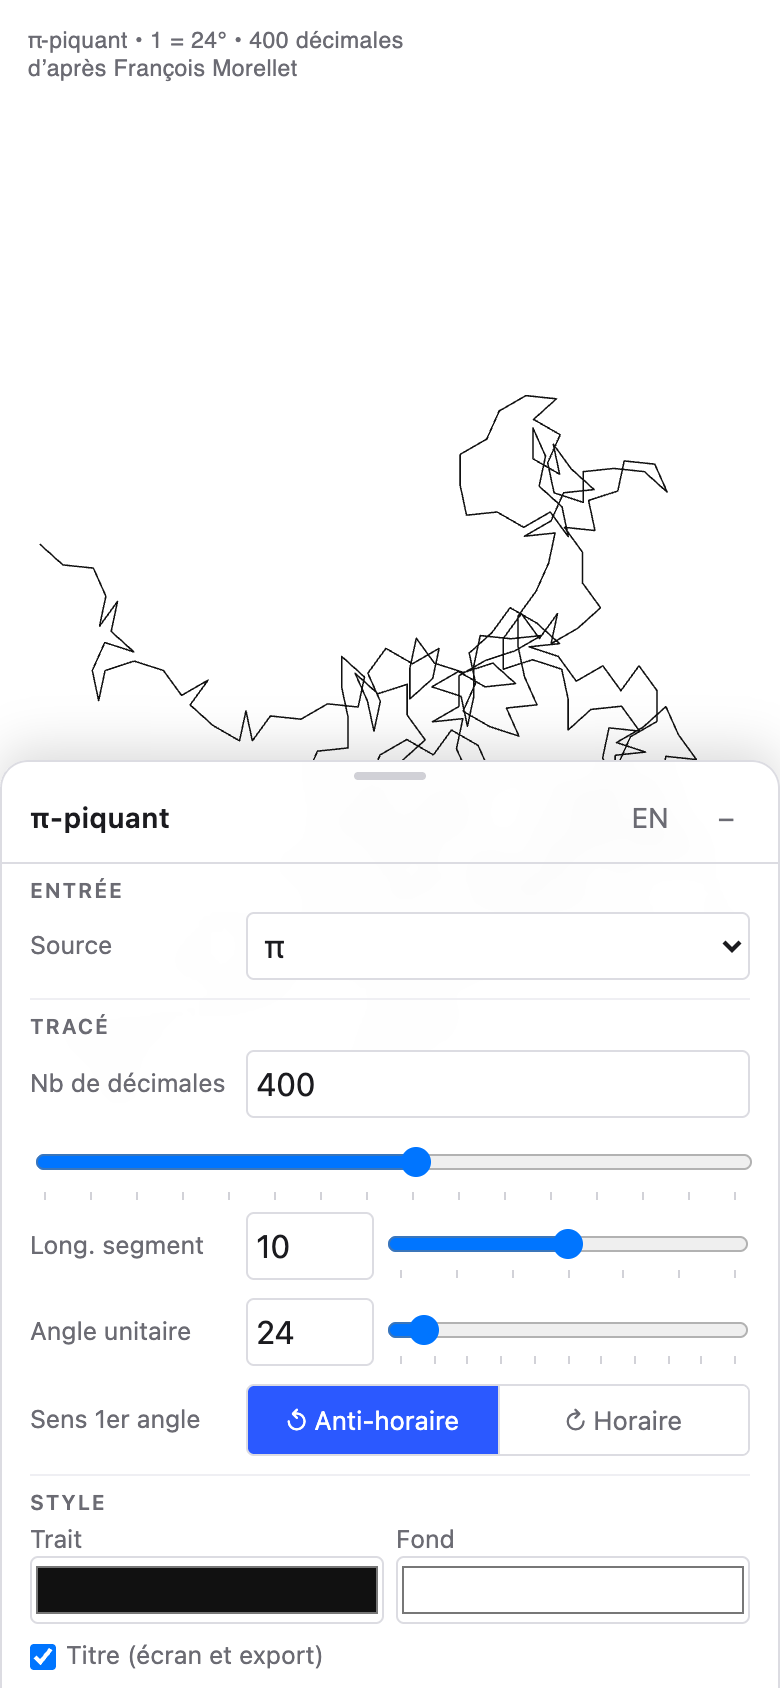
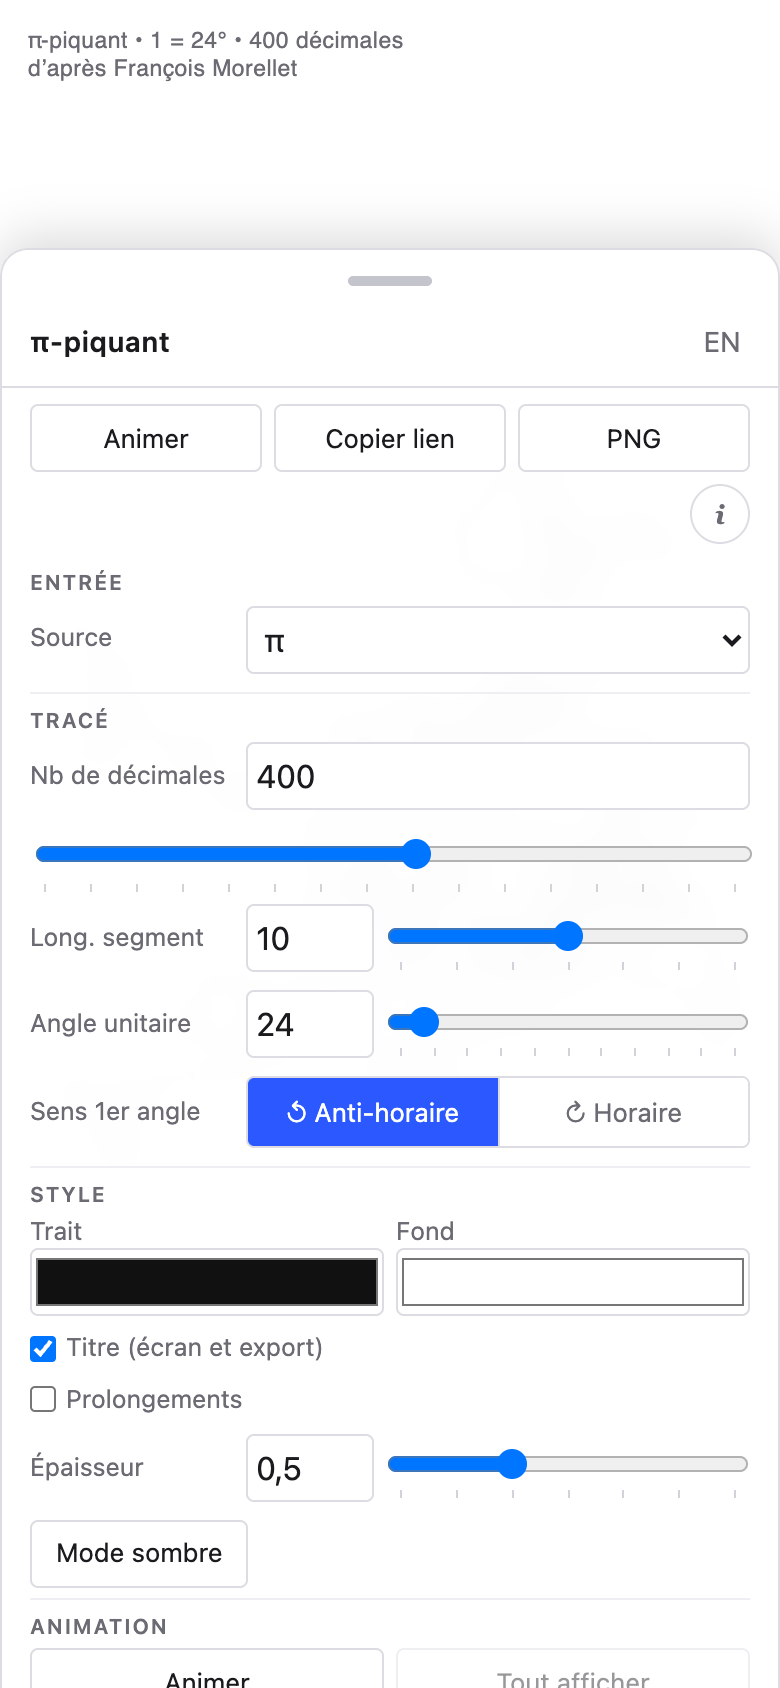
Feuille mobile à trois positions pilotées au geste
- Fermée (poignée seule, aucun bouton, état initial), mi-ouverte (titre,
  langue, Animer / Copier lien / PNG, état) et ouverte (tous les réglages)
- Toucher la poignée ouvre d'un cran ; petit glissement = position voisine ;
  grand glissement vers le bas = fermeture ; seule la distance compte
  (nextSheet, fonction pure testée) ; la feuille suit le doigt
- Poignée utilisable au clavier (Entrée, Espace) ; hauteur fixe 86 %,
  déplacée par translation, zone sûre du bas prise en compte
- Remplace le bouton de repli « – / + » sur mobile ; bureau inchangé
- Captures mobiles du README régénérées (mi-ouverte, ouverte) ; script de
  capture : option --only=<série> ; README et tests (77) mis à jour

diff --git a/src/ui/panel.ts b/src/ui/panel.ts
@@ -1,5 +1,5 @@
 import { strings, type Dict } from './i18n';
-import { isMobile, MOBILE_QUERY } from './layout';
+import { isMobile, MOBILE_QUERY, nextSheet, type Sheet } from './layout';
 import { COUNT_STOPS, DEFAULT_VIDEO_DURATION, INTENSITY_STOPS, LENGTH_STOPS, MAX_COUNT, usesCount, MAX_SPEED, MIN_SPEED, SPEED_STOPS, VIDEO_DURATION_STOPS, WIDTH_STOPS, type Params } from './state';
 
 export interface PanelActions {
@@ -40,7 +40,8 @@ export function createPanel(host: El, a: PanelActions) {
   panel.addEventListener('wheel', (e) => e.stopPropagation());
 
   let t: Dict = strings(a.get().lang);
-  let collapsed = isMobile(); // sur téléphone, la feuille démarre repliée : le dessin reste visible
+  let collapsed = false; // bureau : fenêtre repliée ou non
+  let sheet: Sheet = 'closed'; // mobile : la feuille démarre fermée (poignée seule), le dessin reste entièrement visible
   let playing = false;
   let canShowAll = false;
   let showAllBtn: HTMLButtonElement | null = null;
@@ -51,15 +52,64 @@ export function createPanel(host: El, a: PanelActions) {
   let status = '';
   let statusEl: El | null = null;
 
-  // --- glisser la fenêtre -------------------------------------------------
+  // --- mobile : feuille à trois positions ---------------------------------
+  // safe-area du bas (barre d'accueil des téléphones), mesurée via un élément invisible
+  const probe = h('div', { style: 'position:fixed;visibility:hidden;pointer-events:none;padding-bottom:env(safe-area-inset-bottom)' });
+  panel.append(probe);
+  const safeBottom = () => parseFloat(getComputedStyle(probe).paddingBottom) || 0;
+
+  /** Décalage vertical (px) de la feuille pour chaque position : 0 = entièrement visible. */
+  function sheetOffsets() {
+    const height = panel.offsetHeight;
+    const grip = header.querySelector<HTMLElement>('.grip');
+    const foot = body.querySelector<HTMLElement>('.foot');
+    const safe = safeBottom();
+    const closedVisible = (grip?.offsetHeight ?? 30) + safe; // poignée seule
+    const halfVisible = foot ? foot.offsetTop + foot.offsetHeight + 8 + safe : closedVisible; // + titre, actions rapides, ligne d'état
+    return { closed: height - closedVisible, half: height - halfVisible, full: 0 };
+  }
+
+  /** Place la feuille sur sa position (avec animation) ; sans effet sur bureau. */
+  function applySheet() {
+    if (!isMobile()) {
+      panel.style.transform = '';
+      panel.style.transition = '';
+      body.style.overflowY = '';
+      delete panel.dataset.sheet;
+      return;
+    }
+    panel.style.transition = '';
+    panel.style.transform = `translateY(${sheetOffsets()[sheet]}px)`;
+    body.style.overflowY = sheet === 'full' ? 'auto' : 'hidden'; // le contenu ne défile que feuille ouverte
+    panel.dataset.sheet = sheet;
+    header.querySelector('.grip')?.setAttribute('aria-expanded', String(sheet !== 'closed'));
+  }
+  window.addEventListener('resize', applySheet); // la barre d'adresse des téléphones change la hauteur utile
+
+  // --- glisser la fenêtre (bureau) ou la feuille (mobile) -----------------
   let drag: { dx: number; dy: number } | null = null;
+  let gesture: { startY: number; t0: number; base: number } | null = null;
+  const capture = (e: PointerEvent) => {
+    try { header.setPointerCapture(e.pointerId); } catch { /* pointeur synthétique : pas de capture */ }
+  };
   header.addEventListener('pointerdown', (e) => {
-    if (isMobile() || (e.target as HTMLElement).closest('button')) return; // la feuille mobile n'est pas déplaçable
+    if ((e.target as HTMLElement).closest('button')) return;
+    if (isMobile()) {
+      gesture = { startY: e.clientY, t0: performance.now(), base: sheetOffsets()[sheet] };
+      panel.style.transition = 'none'; // la feuille suit le doigt sans retard
+      capture(e);
+      return;
+    }
     const r = panel.getBoundingClientRect();
     drag = { dx: e.clientX - r.left, dy: e.clientY - r.top };
-    header.setPointerCapture(e.pointerId);
+    capture(e);
   });
   header.addEventListener('pointermove', (e) => {
+    if (gesture) {
+      const y = Math.min(sheetOffsets().closed, Math.max(0, gesture.base + e.clientY - gesture.startY));
+      panel.style.transform = `translateY(${y}px)`;
+      return;
+    }
     if (!drag) return;
     const x = Math.min(Math.max(0, e.clientX - drag.dx), window.innerWidth - 60);
     const y = Math.min(Math.max(0, e.clientY - drag.dy), window.innerHeight - 40);
@@ -67,17 +117,25 @@ export function createPanel(host: El, a: PanelActions) {
     panel.style.top = `${y}px`;
     panel.style.right = 'auto';
   });
-  header.addEventListener('pointerup', () => (drag = null));
-  // feuille mobile : toucher l'en-tête (hors boutons) la replie ou la déplie
-  header.addEventListener('click', (e) => {
-    if (!isMobile() || (e.target as HTMLElement).closest('button')) return;
-    collapsed = !collapsed;
-    build();
+  header.addEventListener('pointerup', (e) => {
+    drag = null;
+    if (!gesture) return;
+    const g = gesture;
+    gesture = null;
+    // petit/grand glissement vers le haut ou le bas, ou simple toucher : voir nextSheet
+    sheet = nextSheet(sheet, e.clientY - g.startY, performance.now() - g.t0, panel.offsetHeight);
+    applySheet();
   });
-  // changement de disposition (rotation, redimensionnement) : position libre effacée, état adapté
+  header.addEventListener('pointercancel', () => {
+    drag = null;
+    gesture = null;
+    applySheet(); // geste interrompu : la feuille revient à sa position
+  });
+  // changement de disposition (rotation, redimensionnement) : position libre effacée, état remis à zéro
   window.matchMedia(MOBILE_QUERY).addEventListener('change', () => {
     panel.style.left = panel.style.top = panel.style.right = '';
-    collapsed = isMobile();
+    collapsed = false;
+    sheet = 'closed';
     build();
   });
 
@@ -199,26 +257,36 @@ export function createPanel(host: El, a: PanelActions) {
       a.set({ lang: p.lang === 'fr' ? 'en' : 'fr' });
       build();
     }, 'ghost');
-    const fold = button(collapsed ? '+' : '–', () => {
-      collapsed = !collapsed;
-      build();
-    }, 'ghost');
-    fold.title = collapsed ? t.show : t.hide;
-    header.append(title, h('span', { class: 'spacer' }), langBtn, fold);
-    panel.classList.toggle('collapsed', collapsed);
-    if (collapsed) {
-      // feuille mobile repliée : les trois actions principales et la ligne d'état
-      if (isMobile()) {
-        body.append(
-          h('div', { class: 'row quick' },
-            button(playing ? t.pause : t.play, () => a.togglePlay()),
-            button(t.copyLink, () => a.copyLink()),
-            button(t.png, () => a.exportPng(Number(pngSizeValue))),
-          ),
-          footer(),
-        );
-      }
-      return;
+    const mobile = isMobile();
+    if (mobile) {
+      // en-tête = poignée (seule visible feuille fermée) + titre et langue ; pas de bouton de repli : on glisse ou on touche la poignée
+      const grip = h('div', { class: 'grip', role: 'button', tabindex: '0', 'aria-label': t.settings });
+      grip.addEventListener('keydown', (e) => {
+        if (e.key !== 'Enter' && e.key !== ' ') return;
+        e.preventDefault();
+        sheet = nextSheet(sheet, 0, 0, panel.offsetHeight); // équivaut à un toucher
+        applySheet();
+      });
+      header.append(grip, h('div', { class: 'sheet-title' }, title, h('span', { class: 'spacer' }), langBtn));
+      panel.classList.remove('collapsed');
+      // feuille mi-ouverte : les trois actions principales et la ligne d'état, juste sous le titre
+      body.append(
+        h('div', { class: 'row quick' },
+          button(playing ? t.pause : t.play, () => a.togglePlay()),
+          button(t.copyLink, () => a.copyLink()),
+          button(t.png, () => a.exportPng(Number(pngSizeValue))),
+        ),
+        footer(),
+      );
+    } else {
+      const fold = button(collapsed ? '+' : '–', () => {
+        collapsed = !collapsed;
+        build();
+      }, 'ghost');
+      fold.title = collapsed ? t.show : t.hide;
+      header.append(title, h('span', { class: 'spacer' }), langBtn, fold);
+      panel.classList.toggle('collapsed', collapsed);
+      if (collapsed) return;
     }
 
     // Source
@@ -333,7 +401,11 @@ export function createPanel(host: El, a: PanelActions) {
       ),
     ));
 
-    body.append(footer());
+    if (!mobile) body.append(footer());
+    else {
+      applySheet();
+      requestAnimationFrame(applySheet); // mesures définitives une fois la mise en page terminée
+    }
   }
 
   /** Ligne du bas : messages d'état à gauche, bouton d'information à droite. */

diff --git a/src/style.css b/src/style.css
@@ -106,19 +106,28 @@ button.info {
 .info-dialog .version { margin: 12px 0 0; font-size: 10.5px; color: var(--muted); }
 .info-dialog .version a { color: inherit; }
 
-/* Mobile : la fenêtre devient une feuille en bas de l'écran (seuil identique à MOBILE_QUERY dans src/ui/layout.ts) */
+/*
+ * Mobile : la fenêtre devient une feuille en bas de l'écran, à trois positions (src/ui/layout.ts, nextSheet) :
+ * fermée (poignée seule), mi-ouverte (titre, actions rapides, état) et ouverte. Hauteur fixe, déplacée par translation
+ * (position réglée par src/ui/panel.ts). Seuil identique à MOBILE_QUERY.
+ */
 @media (max-width: 640px) {
   body { font-size: 13px; }
   .panel {
-    top: auto; right: 0; left: 0; bottom: 0; width: auto; max-height: 55vh; max-height: 55dvh;
+    top: auto; right: 0; left: 0; bottom: 0; width: auto;
+    height: min(86vh, 720px); height: min(86dvh, 720px); max-height: none;
     border-radius: 14px 14px 0 0; border-bottom: 0; padding-bottom: env(safe-area-inset-bottom);
     box-shadow: 0 -6px 24px rgba(0,0,0,.14);
+    transform: translateY(calc(100% - 34px)); /* avant la mesure : poignée seule */
+    transition: transform .26s cubic-bezier(.2, .8, .2, 1);
+    will-change: transform;
   }
-  .panel-head { position: relative; cursor: pointer; padding: 12px 8px 6px 14px; }
-  .panel-head::before { content: ''; position: absolute; top: 5px; left: 50%; width: 36px; height: 4px; margin-left: -18px; border-radius: 2px; background: #d0d0d6; }
+  .panel-head { display: block; padding: 0 8px; cursor: default; touch-action: none; }
+  .grip { height: 30px; display: flex; align-items: center; justify-content: center; cursor: grab; touch-action: none; outline-offset: -3px; }
+  .grip::before { content: ''; width: 42px; height: 5px; border-radius: 3px; background: #c4c4cc; }
+  .sheet-title { display: flex; align-items: center; padding: 0 2px 6px 6px; }
   .panel-head .title { font-size: 14px; }
-  .panel-body { padding: 0 14px 10px; overscroll-behavior: contain; -webkit-overflow-scrolling: touch; }
-  .panel.collapsed .panel-body { border-top: 0; padding-bottom: 8px; }
+  .panel-body { flex: 1; min-height: 0; padding: 0 14px 10px; overflow-y: hidden; overscroll-behavior: contain; -webkit-overflow-scrolling: touch; }
   button { height: 34px; padding: 0 12px; }
   button.ghost { height: 32px; min-width: 36px; font-size: 14px; }
   input[type=number], select { height: 34px; font-size: 16px; }
@@ -133,7 +142,9 @@ button.info {
   h3 { font-size: 10.5px; }
   button.info { width: 30px; height: 30px; font-size: 13px; }
   .row { gap: 6px; margin-bottom: 8px; }
-  .quick { margin-top: 6px; margin-bottom: 0; }
+  .quick { margin-top: 8px; margin-bottom: 0; }
+  .foot { margin-top: 6px; margin-bottom: 4px; }
+  section:first-of-type { margin-top: 6px; }
   .caption { top: 14px; bottom: auto; left: 14px; font-size: 11.5px; }
   .info-dialog { font-size: 13.5px; }
 }

diff --git a/tests/digits.test.ts b/tests/digits.test.ts
@@ -11,6 +11,7 @@ import { decodeParams, DEFAULTS, encodeParams, mixColor, sanitize, usesCount, wi
 import { clipLine, extendedLines } from '../src/geometry/extend';
 import { BUILD, REPO_URL, versionLine, versionParts } from '../src/ui/version';
 import { pickVideoType } from '../src/render/video';
+import { nextSheet } from '../src/ui/layout';
 import { drawPath } from '../src/render/canvas';
 
 const str = (d: Uint8Array) => Array.from(d).join('');
@@ -436,5 +437,40 @@ describe('tracé progressif', () => {
     drawPath(ctx, pts, 2, style, 1, 0, 0, 100, 100);
     expect(calls.at(-1)).toEqual(['l', 10, 10]);
     expect(calls.length).toBe(3);
+  });
+});
+
+describe('feuille mobile : position après un geste sur la poignée', () => {
+  const H = 700;
+  it('toucher : fermée → mi-ouverte → ouverte → mi-ouverte', () => {
+    expect(nextSheet('closed', 0, 120, H)).toBe('half');
+    expect(nextSheet('half', 2, 120, H)).toBe('full');
+    expect(nextSheet('full', -3, 120, H)).toBe('half');
+  });
+  it('seule la distance compte, pas la vitesse du geste', () => {
+    expect(nextSheet('full', 60, 5, H)).toBe('half'); // petit mouvement, même instantané
+    expect(nextSheet('full', 60, 2000, H)).toBe('half');
+    expect(nextSheet('half', -60, 5, H)).toBe('full');
+  });
+  it('un appui long sans mouvement n\'est pas un toucher : la feuille ne bouge pas', () => {
+    expect(nextSheet('closed', 0, 900, H)).toBe('closed');
+    expect(nextSheet('half', 0, 900, H)).toBe('half');
+  });
+  it('fermée : petit glissement vers le haut → mi-ouverte, grand → ouverte', () => {
+    expect(nextSheet('closed', -60, 400, H)).toBe('half');
+    expect(nextSheet('closed', -320, 400, H)).toBe('full');
+    expect(nextSheet('closed', -15, 400, H)).toBe('closed'); // trop court
+  });
+  it('mi-ouverte : petit glissement vers le haut → ouverte, vers le bas → fermée', () => {
+    expect(nextSheet('half', -40, 300, H)).toBe('full');
+    expect(nextSheet('half', 40, 300, H)).toBe('closed');
+    expect(nextSheet('half', -15, 300, H)).toBe('half');
+    expect(nextSheet('half', 15, 300, H)).toBe('half');
+  });
+  it('ouverte : petit glissement vers le bas → mi-ouverte, grand → fermée', () => {
+    expect(nextSheet('full', 60, 400, H)).toBe('half');
+    expect(nextSheet('full', 320, 600, H)).toBe('closed');
+    expect(nextSheet('full', 15, 400, H)).toBe('full');
+    expect(nextSheet('full', -80, 300, H)).toBe('full'); // vers le haut : reste ouverte
   });
 });

diff --git a/src/ui/layout.ts b/src/ui/layout.ts
@@ -1,3 +1,29 @@
 /** Seuil de largeur en dessous duquel la fenêtre de réglages devient une feuille en bas de l'écran (identique dans style.css). */
 export const MOBILE_QUERY = '(max-width: 640px)';
 export const isMobile = () => window.matchMedia(MOBILE_QUERY).matches;
+
+/** Positions de la feuille de réglages sur mobile : poignée seule, mi-ouverte (actions rapides), ouverte. */
+export type Sheet = 'closed' | 'half' | 'full';
+
+/** Glissement « petit » (en pixels) : au-delà, la feuille change de position ; en dessous, c'est un simple toucher. */
+const SHEET_SMALL = 28;
+const TAP_MAX_MOVE = 6; // pixels
+const TAP_MAX_TIME = 500; // ms
+
+/**
+ * Position suivante de la feuille après un geste sur sa poignée.
+ * `dy` : déplacement vertical en pixels (positif = vers le bas), `dt` : durée en ms, `height` : hauteur de la feuille.
+ *  - toucher : fermée → mi-ouverte → ouverte ; ouverte → mi-ouverte
+ *  - fermée : petit glissement vers le haut → mi-ouverte, grand → ouverte
+ *  - mi-ouverte : petit glissement vers le haut → ouverte, vers le bas → fermée
+ *  - ouverte : petit glissement vers le bas → mi-ouverte, grand → fermée
+ * Seule la distance compte : « petit » = au moins SHEET_SMALL, « grand » = au moins 30 % de la hauteur (150 px minimum).
+ */
+export function nextSheet(from: Sheet, dy: number, dt: number, height: number): Sheet {
+  const large = Math.max(150, height * 0.3);
+  if (Math.abs(dy) < TAP_MAX_MOVE && dt < TAP_MAX_TIME) return from === 'closed' ? 'half' : from === 'half' ? 'full' : 'half';
+  const up = -dy;
+  if (from === 'closed') return up > large ? 'full' : up > SHEET_SMALL ? 'half' : 'closed';
+  if (from === 'half') return up > SHEET_SMALL ? 'full' : dy > SHEET_SMALL ? 'closed' : 'half';
+  return dy > large ? 'closed' : dy > SHEET_SMALL ? 'half' : 'full';
+}

diff --git a/src/ui/i18n.ts b/src/ui/i18n.ts
@@ -35,7 +35,7 @@ const dict = {
     png: 'PNG', svg: 'SVG', pdf: 'PDF',
     copyLink: 'Copier lien', saveJson: '↓ JSON', loadJson: '↑ JSON',
     copied: 'Lien copié', linkApplied: 'Lien appliqué', copyFailed: 'Copie impossible : lien dans la barre d’adresse', downloaded: '{f} téléchargé', jsonLoaded: 'Paramètres chargés', loading: 'Chargement de π…', error: 'Erreur : ',
-    hide: 'Masquer', show: 'Paramètres',
+    hide: 'Masquer', show: 'Paramètres', settings: 'Réglages',
     info: {
       label: 'À propos',
       title: 'François Morellet (1926–2016)',
@@ -82,7 +82,7 @@ const dict = {
     png: 'PNG', svg: 'SVG', pdf: 'PDF',
     copyLink: 'Copy link', saveJson: '↓ JSON', loadJson: '↑ JSON',
     copied: 'Link copied', linkApplied: 'Link applied', copyFailed: 'Copy failed: link is in the address bar', downloaded: '{f} downloaded', jsonLoaded: 'Settings loaded', loading: 'Loading π…', error: 'Error: ',
-    hide: 'Hide', show: 'Settings',
+    hide: 'Hide', show: 'Settings', settings: 'Settings',
     info: {
       label: 'About',
       title: 'François Morellet (1926–2016)',

diff --git a/src/main.ts b/src/main.ts
@@ -76,8 +76,8 @@ function draw() {
 
 function fitView() {
   if (stage.width === 0) return;
-  // mobile : le dessin reste au-dessus de la feuille repliée et sous la légende (en haut à gauche)
-  if (isMobile()) viewport.fit(path, stage.width, stage.height, 20, { top: 48, bottom: 136 });
+  // mobile : le dessin reste au-dessus de la poignée de la feuille fermée et sous la légende (en haut à gauche)
+  if (isMobile()) viewport.fit(path, stage.width, stage.height, 20, { top: 48, bottom: 72 });
   else viewport.fit(path, stage.width, stage.height);
 }
 

diff --git a/README.md b/README.md
@@ -60,9 +60,13 @@ L'écran est blanc, avec une petite fenêtre de réglages que l'on peut **dépla
 - **À l'ouverture**, le nombre de décimales (entre 10 et 200) et l'angle unitaire (entre 1° et 90°) sont tirés au
   hasard : chaque visite propose un dessin différent.
 - **Langue** : français ou anglais (bouton FR/EN en haut de la fenêtre).
-- **Sur téléphone**, la fenêtre devient une **feuille en bas de l'écran** : repliée, elle montre seulement trois actions
-  (Animer, Copier lien, PNG) pour laisser le dessin visible ; toucher son en-tête la déplie (environ la moitié de
-  l'écran). Les commandes sont agrandies pour le tactile, et le pincement zoome comme sur ordinateur.
+- **Sur téléphone**, la fenêtre devient une **feuille en bas de l'écran**, à trois positions :
+  **fermée** (seule la poignée est visible, aucun bouton : le dessin occupe tout l'écran), **mi-ouverte** (titre, langue,
+  trois actions rapides — Animer, Copier lien, PNG — et ligne d'état) et **ouverte** (tous les réglages, qui défilent).
+  Toucher la poignée l'ouvre à moitié, puis complètement. On peut aussi la faire glisser : un **petit** glissement
+  vers le haut l'ouvre d'un cran, un petit glissement vers le bas la ferme d'un cran (de mi-ouverte à fermée, d'ouverte à
+  mi-ouverte), un **grand** glissement vers le bas la ferme d'un coup. Les commandes sont agrandies pour le tactile, et
+  le pincement zoome comme sur ordinateur.
 - **Version** : le bouton « i » affiche aussi la version de l'application, le commit correspondant et la date de
   construction (pratique pour vérifier quelle version est en ligne).
 
@@ -204,10 +208,19 @@ bascule de `requestAnimationFrame` à un minuteur pour aller au bout (images plu
 ## Version mobile
 
 Sous 640 px de large (`MOBILE_QUERY` dans `src/ui/layout.ts`, repris par la media query de `src/style.css`), la fenêtre de
-réglages devient une feuille en bas de l'écran : repliée par défaut, avec une barre d'actions rapides (`panel.ts`) ; l'en-tête
-n'est plus déplaçable mais se touche pour replier ou déplier ; les champs ont 16 px (pas de zoom automatique sur iOS) et les
-cibles tactiles 34 px. `fitView` réserve une marge basse pour que le dessin reste au-dessus de la feuille repliée
-(`Viewport.fit` accepte des marges haute et basse).
+réglages devient une **feuille à trois positions** (`Sheet` : `closed`, `half`, `full`). Sa hauteur est fixe (86 % de l'écran,
+720 px au plus) et c'est une translation qui la déplace ; `panel.ts` mesure les décalages de chaque position
+(`sheetOffsets` : poignée seule, jusqu'à la ligne d'état, ou entièrement visible, en tenant compte de la zone sûre du
+bas des téléphones) puis la place (`applySheet`). L'en-tête mobile est une poignée (`.grip`) suivie du titre et de la
+langue ; le contenu ne défile que feuille ouverte.
+
+Pendant un glissement sur l'en-tête, la feuille suit le doigt ; au relâchement, `nextSheet` (fonction pure, testée, dans
+`src/ui/layout.ts`) choisit la position selon le geste. **Seule la distance compte**, pas la vitesse : toucher
+(< 6 px, < 500 ms) : fermée → mi-ouverte → ouverte → mi-ouverte ; glissement « petit » (≥ 28 px) : d'une position à la
+voisine ; glissement « grand » (≥ 30 % de la hauteur, 150 px au moins) : d'ouverte à fermée, ou de fermée à ouverte.
+La poignée est aussi utilisable au clavier (Entrée ou Espace, équivalent à un toucher, `aria-expanded`). Les champs ont
+16 px (pas de zoom automatique sur iOS) et les cibles tactiles 34 px. `fitView` réserve une marge basse pour que le dessin
+reste au-dessus de la poignée (`Viewport.fit` accepte des marges haute et basse).
 
 ## Version affichée
 
@@ -221,6 +234,8 @@ cibles tactiles 34 px. `fitView` réserve une marge basse pour que le dessin res
 avec `puppeteer-core` sur des liens à réglages fixes (captures reproductibles, bureau et mobile) et enregistre l'animation
 avec le vrai bouton « Vidéo », puis la convertit en GIF carré avec `ffmpeg` (palette optimisée, sous 3 Mo). Prérequis :
 Google Chrome (ou `CHROME_PATH`) et `ffmpeg`. Les images sont écrites dans `docs/images/` et versionnées.
+On peut ne régénérer qu'une série : `npm run capture:readme -- --only=mobile` (`bureau`, `prolongements`, `texte`, `mobile`
+ou `animation`). Les captures mobiles touchent la poignée une ou deux fois pour montrer la feuille mi-ouverte puis ouverte.
 
 ## Conversions réversibles (texte et image)
 
